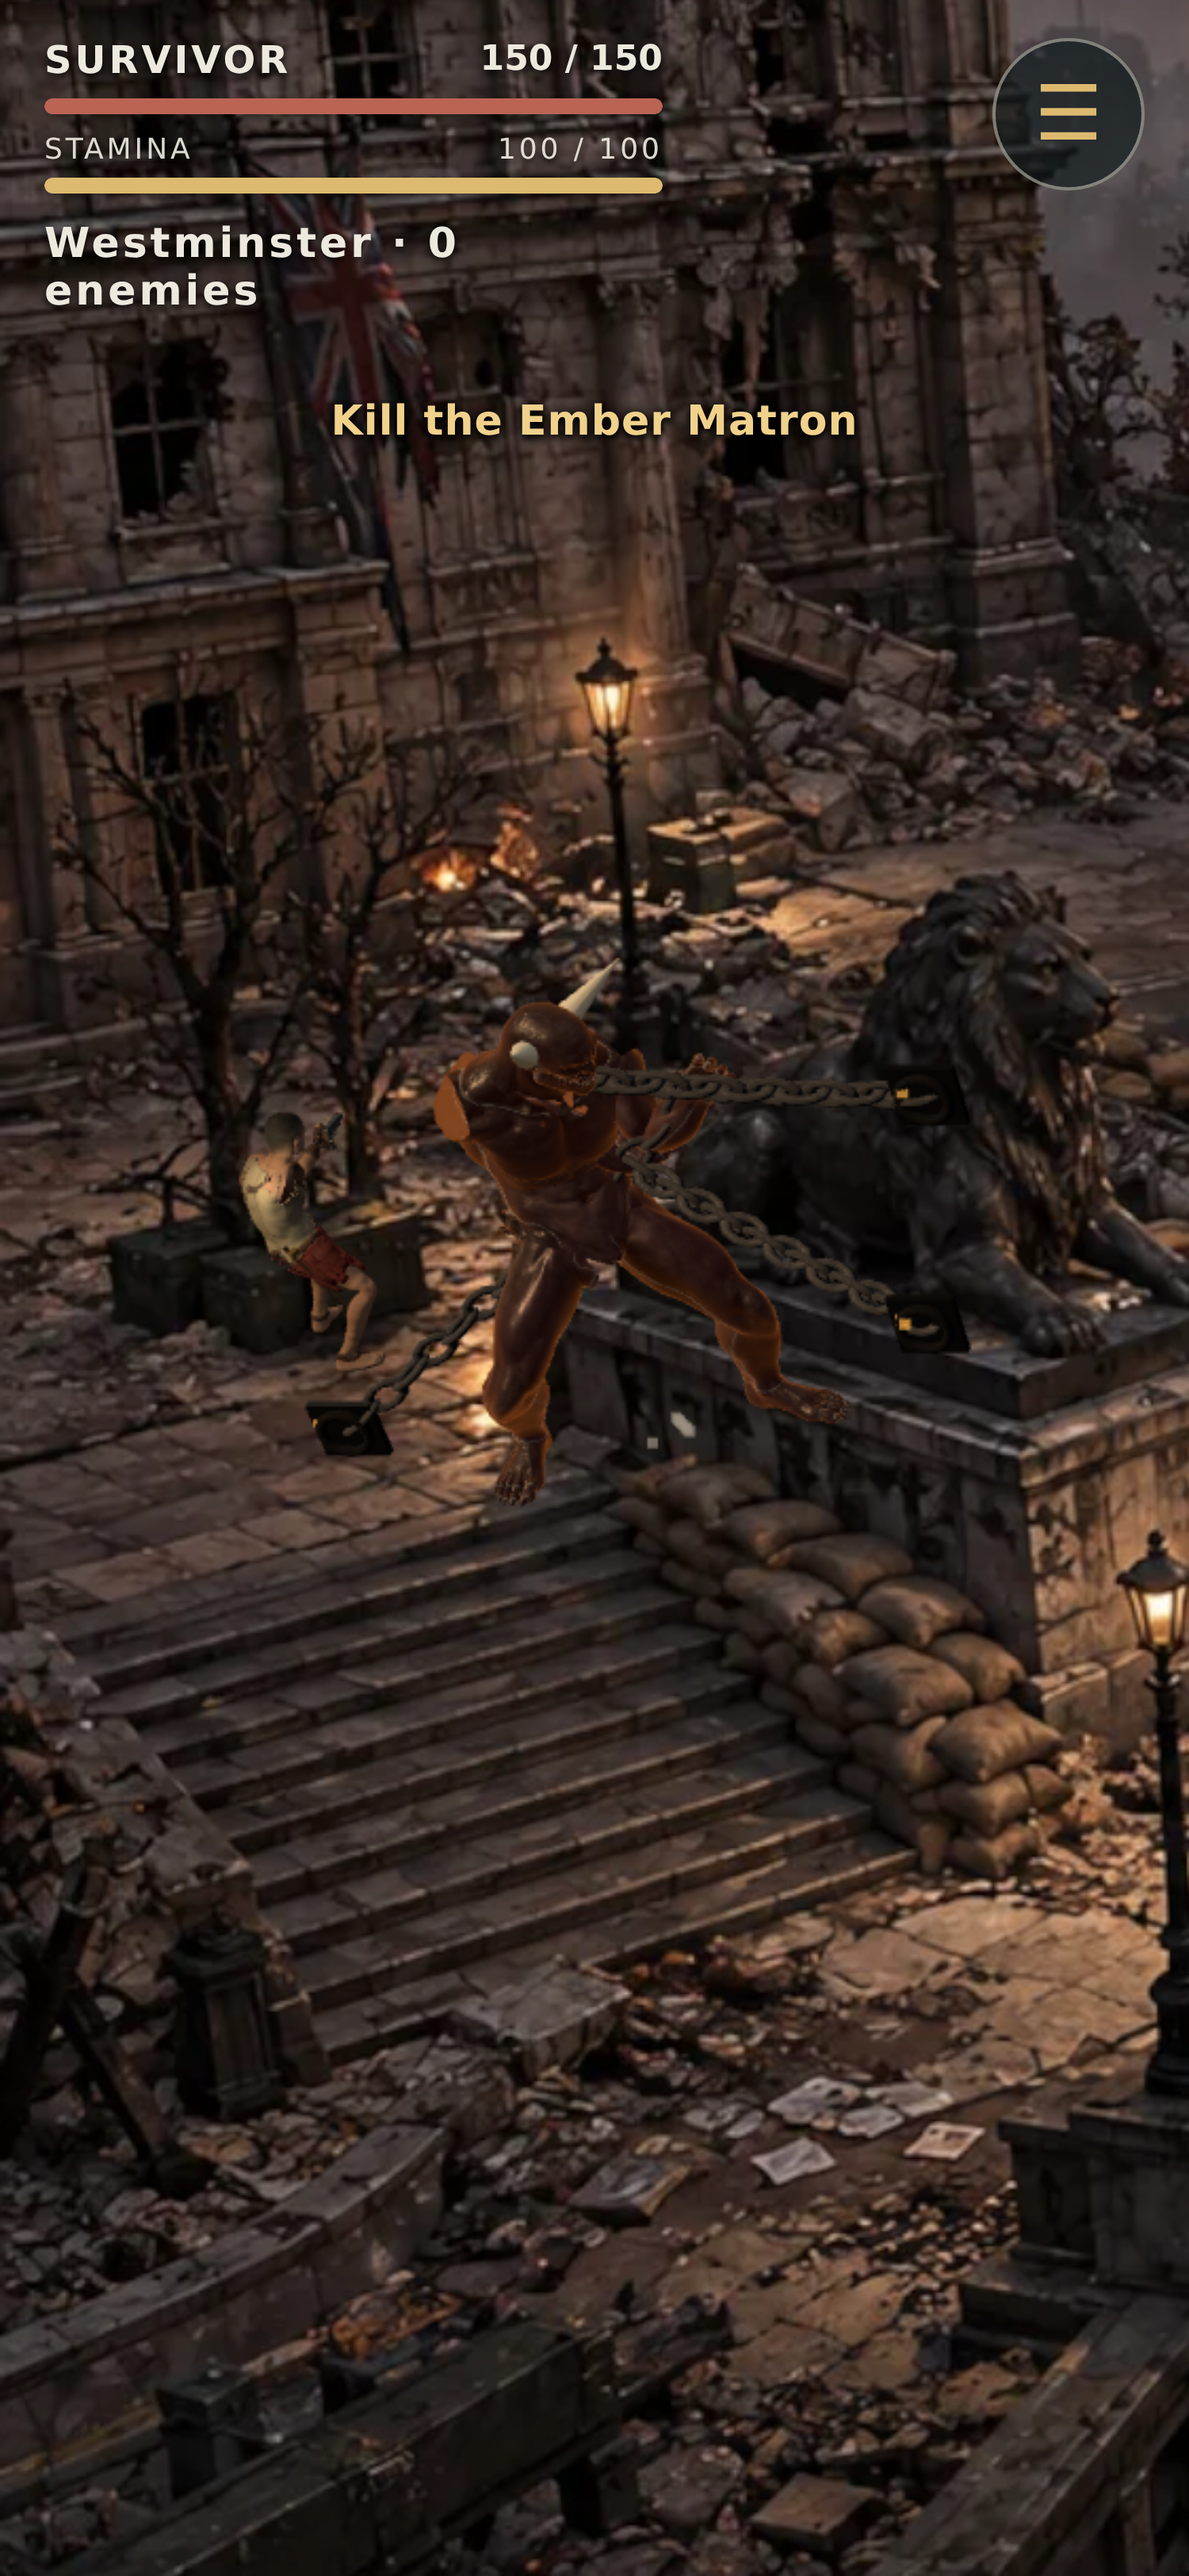
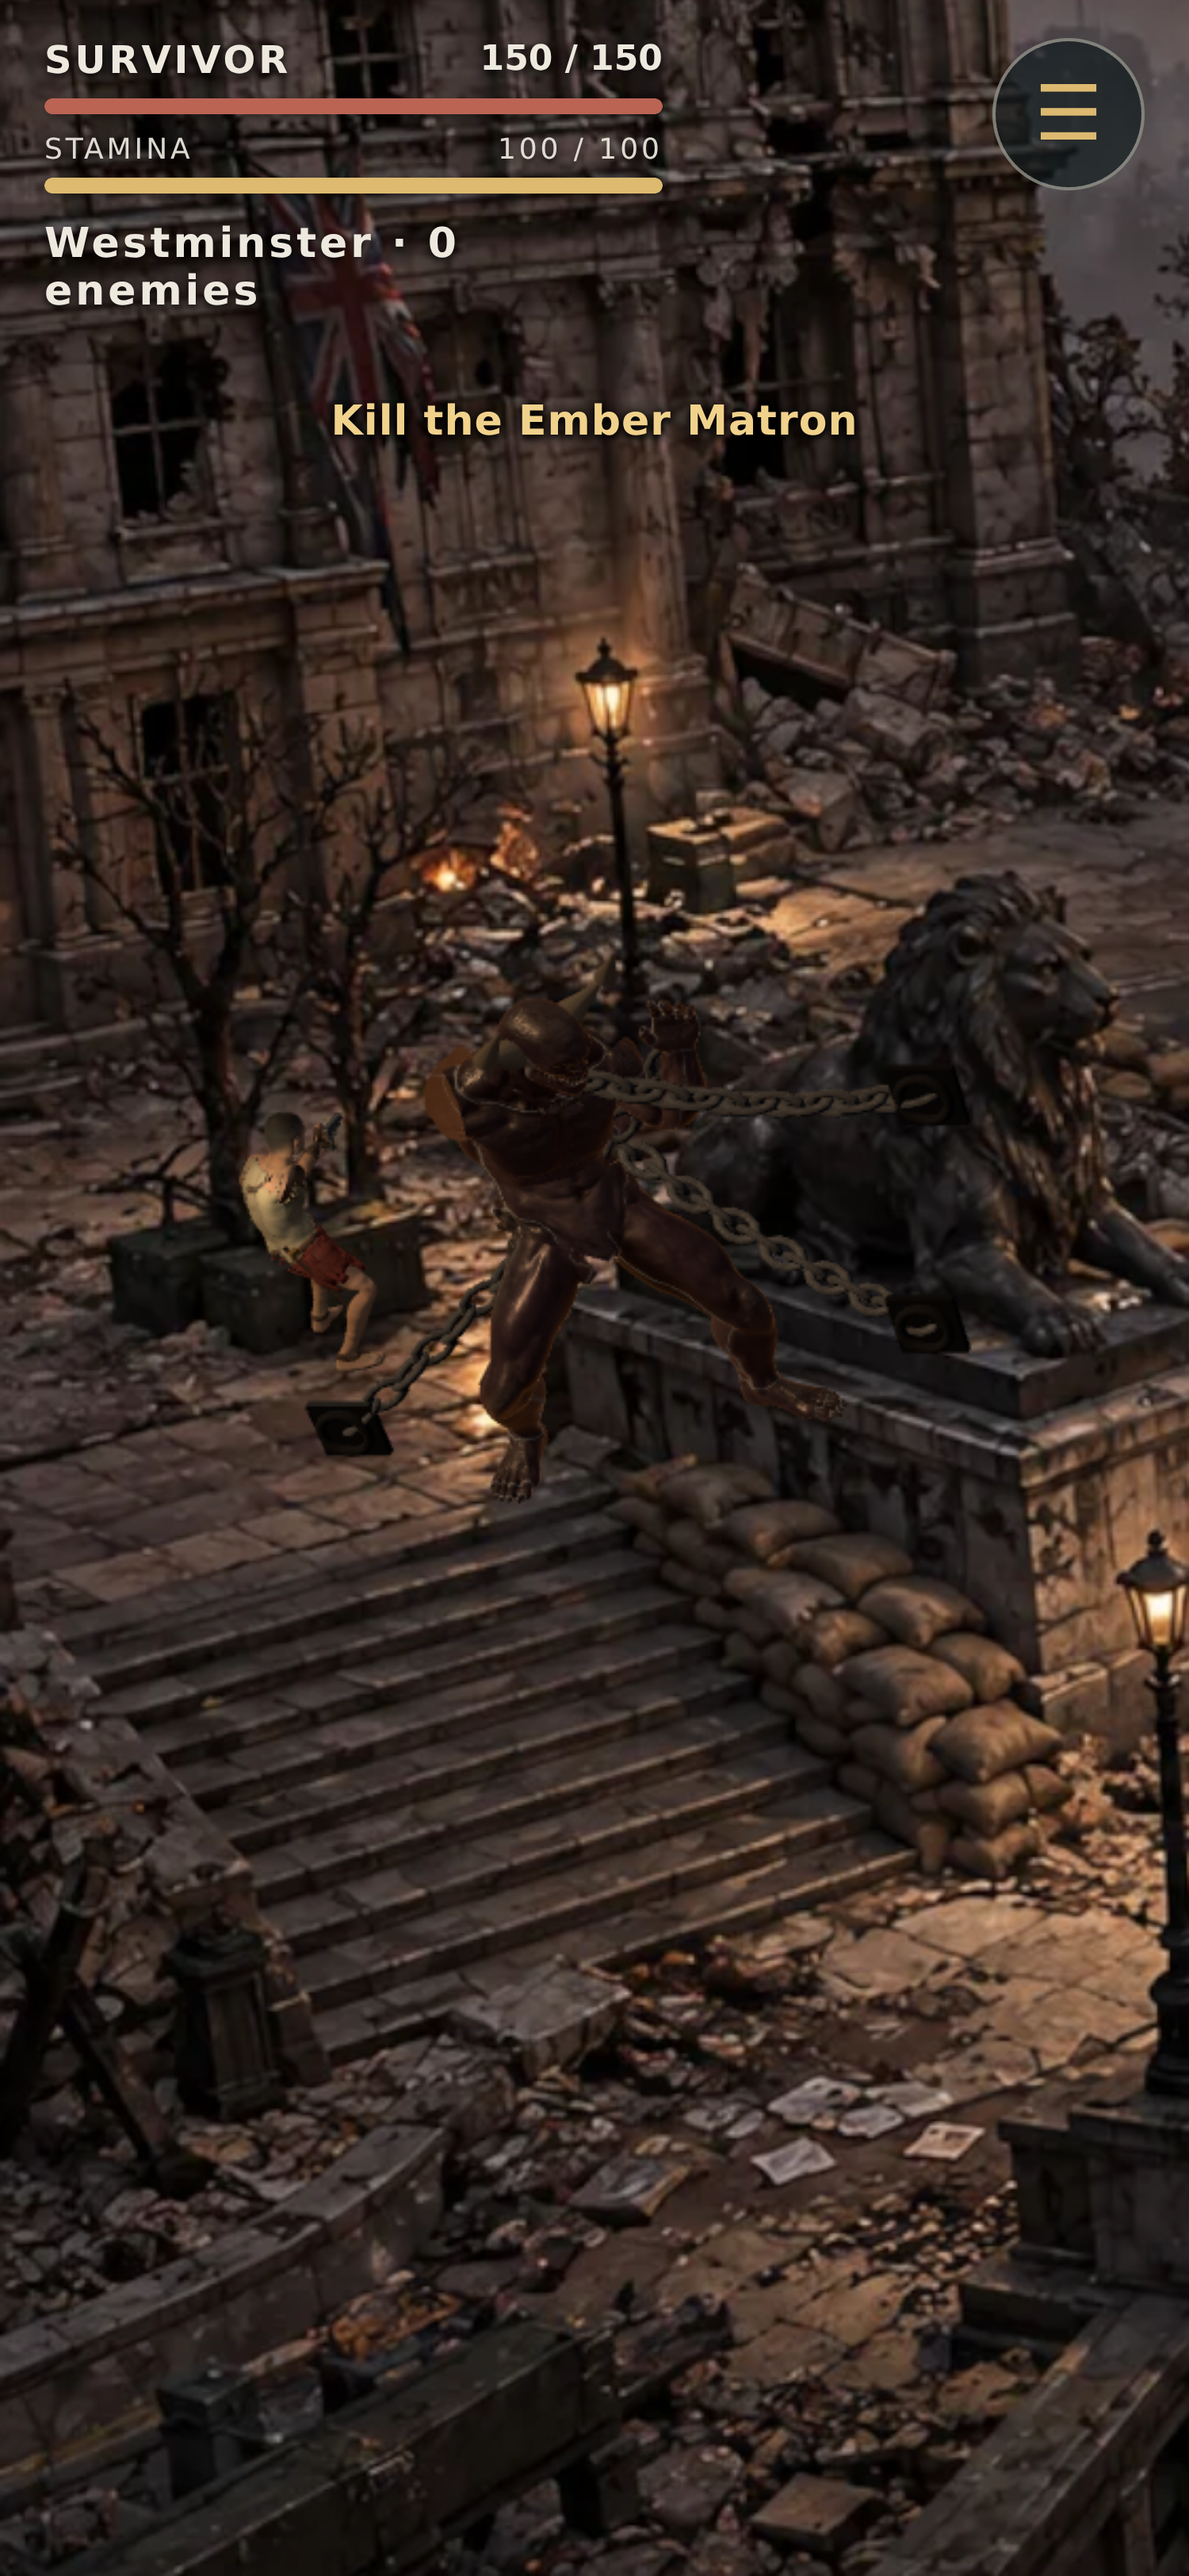
Chained Pitborn v3: dark flesh with thin rim, two curved dark horns each side

Changed region(s): [[0.3373, 0.3732, 0.7053, 0.5908], [0.7053, 0.4042, 0.7667, 0.4353], [0.6747, 0.4664, 0.7053, 0.4975]]

diff --git a/Web/src/engine/chained-pitborn-view.js b/Web/src/engine/chained-pitborn-view.js
@@ -88,17 +88,23 @@ export function createChainedPitbornView(s) {
       fixed = C.rows.map((row) => w.toRender(w.geometry.ground(row.anchor), row.height));
     // The GLB's head has no horns: two bone-coloured cones ride the head bone so the silhouette reads as a bull-man.
     const H = D.horns,
-      horn = new T.Mesh(
-        new T.ConeGeometry(H.radius, H.length, H.segments).translate(0, H.length / 2, 0),
-        new T.MeshStandardMaterial({ color: hex(H.color), emissive: hex(H.emissive), roughness: H.roughness }),
-      );
+      hornMaterial = new T.MeshStandardMaterial({ color: hex(H.color), emissive: hex(H.emissive), roughness: H.roughness }),
+      cone = (r, len) => new T.ConeGeometry(r, len, H.segments).translate(0, len * H.baseShare, 0),
+      horn = new T.Mesh(cone(H.radius, H.length), hornMaterial),
+      tip = new T.Mesh(cone(H.tipRadius, H.tipLength), hornMaterial);
     root.updateMatrixWorld(true);
-    const unit = head ? 1 / head.getWorldScale(tmp.v).x : 0;
+    const unit = head ? 1 / head.getWorldScale(tmp.v).x : 0,
+      deg = T.MathUtils.DEG2RAD;
     for (const side of H.sides) {
-      const m = horn.clone();
+      // Two stacked cones: the base leans outward, the tip bends back up and in, so each horn curves.
+      const m = horn.clone(),
+        t = tip.clone();
+      t.position.set(0, H.length, 0);
+      t.rotation.z = side * H.curveDegrees * deg;
+      m.add(t);
       m.scale.setScalar(unit);
       m.position.set(side * H.spread, H.up, H.forward).multiplyScalar(unit);
-      m.rotation.set(H.tiltForwardDegrees * T.MathUtils.DEG2RAD, 0, -side * H.tiltOutDegrees * T.MathUtils.DEG2RAD);
+      m.rotation.set(H.tiltForwardDegrees * deg, 0, -side * H.tiltOutDegrees * deg);
       head?.add(m);
     }
     const metal = { roughness: C.roughness, metalness: C.metalness },
@@ -144,7 +150,7 @@ export function createChainedPitbornView(s) {
     points.frustumCulled = false;
     s.scene.add(root, link, plate, backplate, points);
     return {
-      ...{ root, model, mixer, bones, head, fixed, link, plate, backplate, points, skin, foot, horn },
+      ...{ root, model, mixer, bones, head, fixed, link, plate, backplate, points, skin, foot, horns: [horn, tip] },
       ...{ geometry, pos, col, born, seed, home, base: root.rotation.y, next: 0 },
     };
   }
@@ -228,8 +234,10 @@ export function createChainedPitbornView(s) {
       o.geometry.dispose();
       o.material.dispose();
     }
-    parts.horn.geometry.dispose();
-    parts.horn.material.dispose();
+    for (const h of parts.horns) {
+      h.geometry.dispose();
+      h.material.dispose();
+    }
     parts.mixer.stopAllAction();
     parts.model.traverse((o) => o.isMesh && o.material.dispose());
     parts = null;
